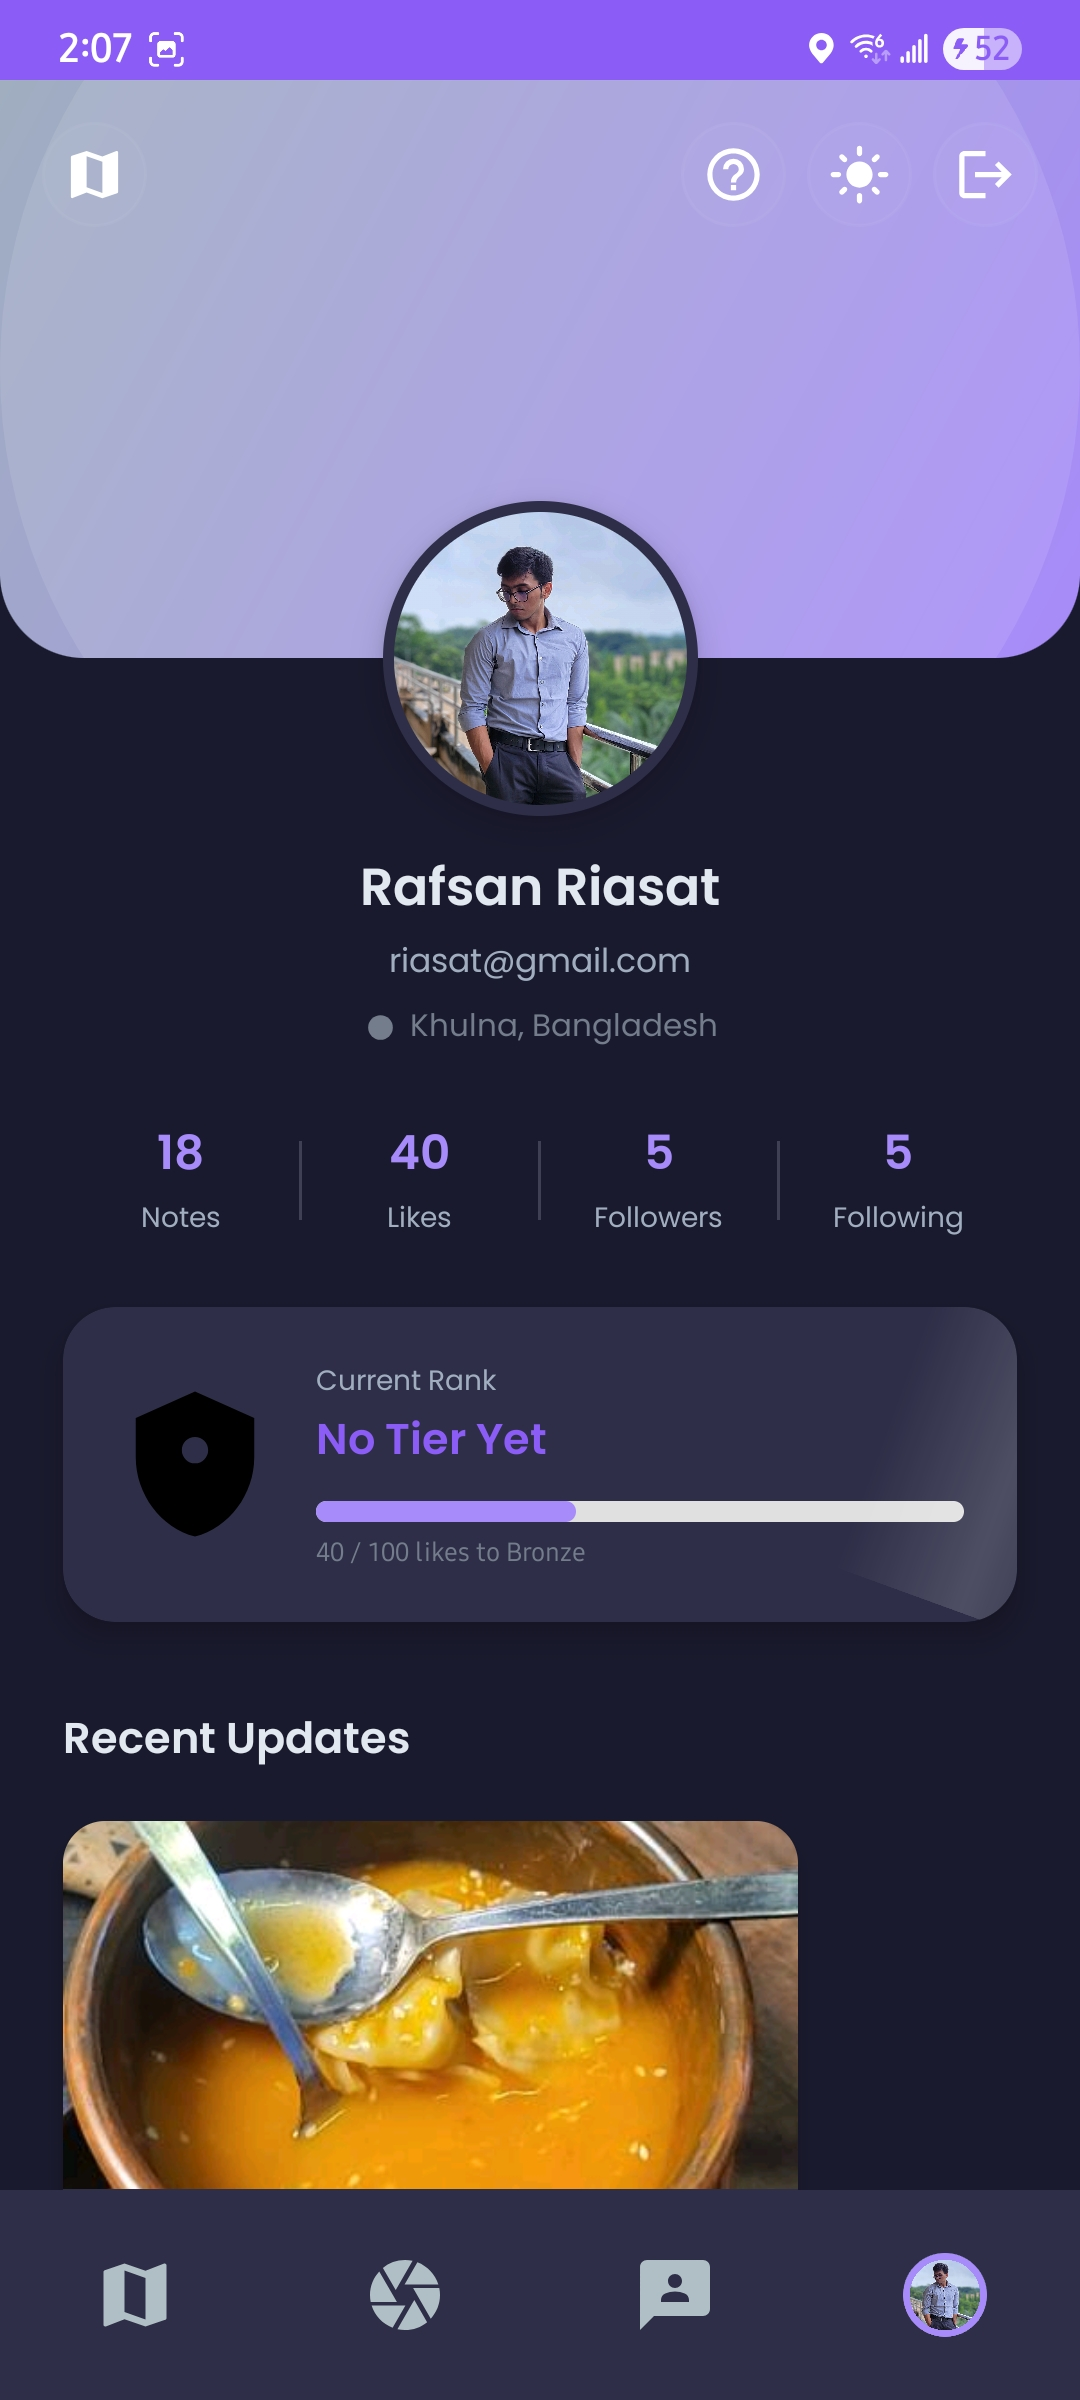
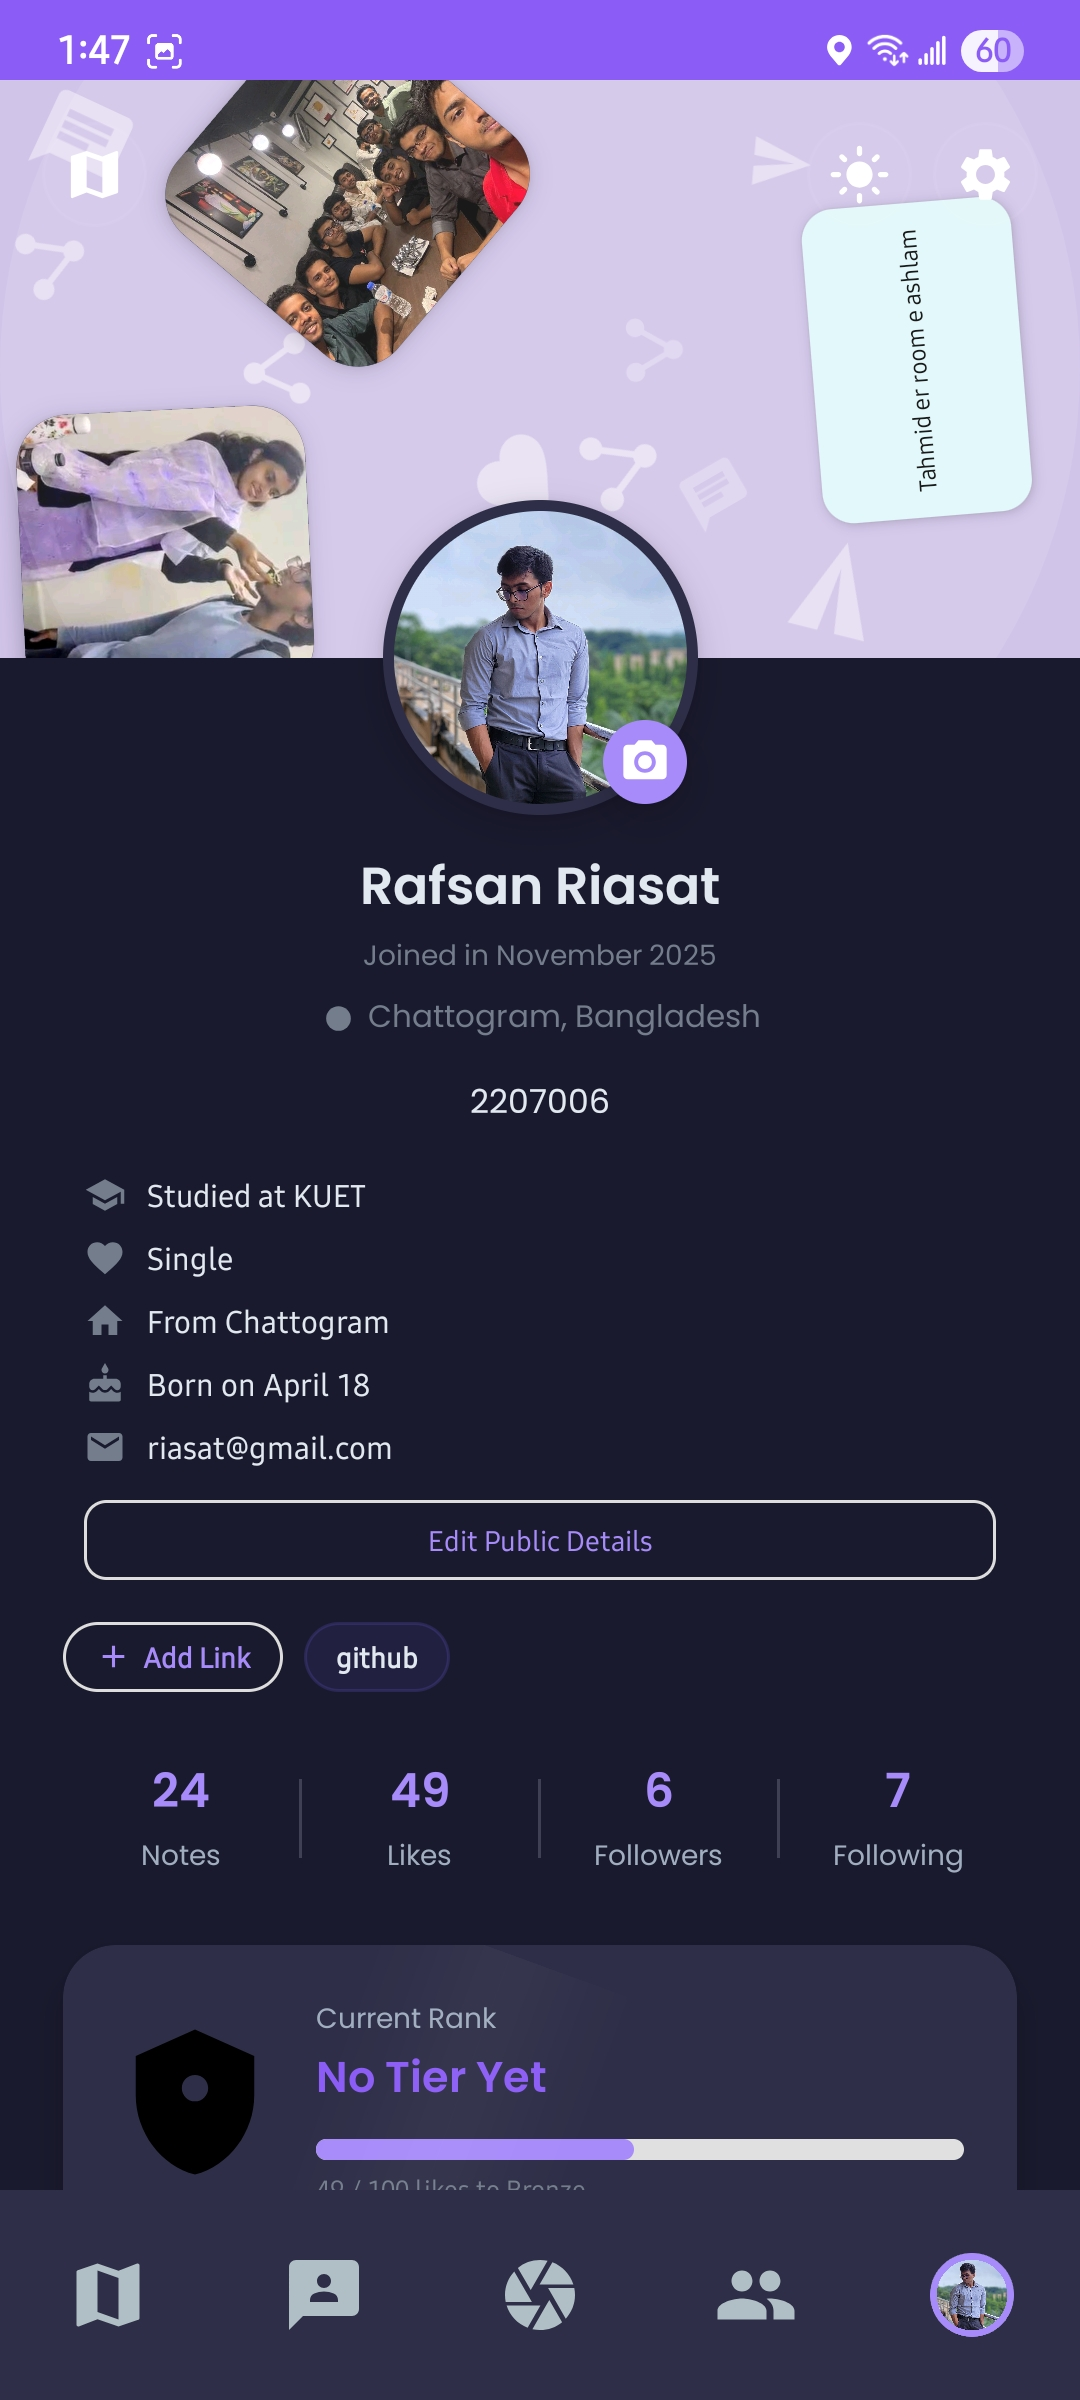
updated readme

diff --git a/README.md b/README.md
@@ -6,24 +6,32 @@
 
 ## ✨ Implemented Features
 
-*   **Interactive Map**: Explore geo-tagged notes and stories on a dynamic map interface.
-*   **Discover Feed**: Browse trending and nearby notes in a visually engaging masonry grid layout.
-*   **Create & Capture**: Drop your own notes at your current location to share with the world.
+*   **Interactive Map**: Explore geo-tagged notes and stories on a dynamic map interface with real-time updates.
+*   **Discover Feed**: Browse trending and nearby notes in a visually engaging Pinterest-style masonry grid layout.
+*   **Create & Capture**: Drop your own notes at your current location with text, images, and AR capture mode.
 *   **Social Interaction**: Follow other users, like meaningful content, and participate in comment discussions.
-*   **User Profiles**: customizable profiles displaying user stats and note history.
+*   **User Profiles**: Fully customizable profiles displaying user stats, note history, and achievement tiers.
 *   **Real-time Notifications**: Stay updated with interactions and activities from your network.
+*   **Privacy Features**: Account privacy controls, follow request system, content visibility settings, and block/report functionality.
+*   **Real-time Chatting**: Direct messaging with online status, read receipts, and anonymous messaging options.
+*   **People You May Know**: Discover new connections based on mutual follows, location, and interests.
+*   **Personalization & More**: Dark/light themes, customizable profiles, favorite notes, achievement system, and personalized feed algorithm.
 
 ## 📱 Screenshots
 
 <div align="center">
 
-| Map Exploration | Discover Feed |
-|:---:|:---:|
-| <img src="screenshots/map.jpg" width="300" /> | <img src="screenshots/discover.jpg" width="300" /> |
-
-| User Profile | Notifications | Capture Mode |
+| Map View | Discover Feed | Connect |
 |:---:|:---:|:---:|
-| <img src="screenshots/profile.jpg" width="280" /> | <img src="screenshots/notification.jpg" width="280" /> | <img src="screenshots/capture.jpg" width="280" /> |
+| <img src="screenshots/map.jpg" width="280" /> | <img src="screenshots/discover.jpg" width="280" /> | <img src="screenshots/connect.jpg" width="280" /> |
+
+| Create Post | User Profile | Settings |
+|:---:|:---:|:---:|
+| <img src="screenshots/post.jpg" width="280" /> | <img src="screenshots/profile.jpg" width="280" /> | <img src="screenshots/settings.jpg" width="280" /> |
+
+| Map Details | Capture Mode |
+|:---:|:---:|
+| <img src="screenshots/map2.jpg" width="280" /> | <img src="screenshots/capture.jpg" width="280" /> |
 
 </div>
 
